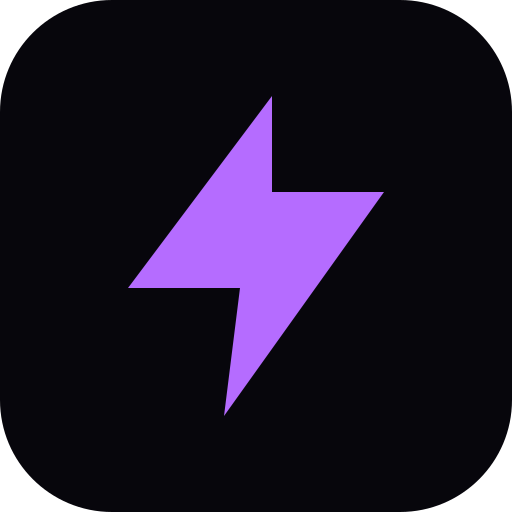
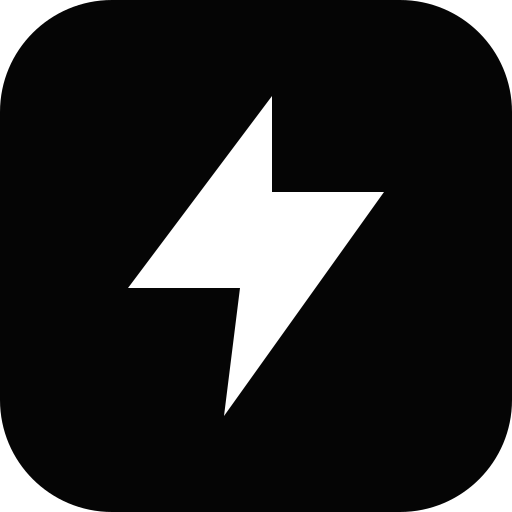
Switch site accent from purple to white for a cooler look.

Changed region(s): [[0.25, 0.1875, 0.75, 0.8125]]

diff --git a/src/App.css b/src/App.css
@@ -35,7 +35,7 @@
   height: min(40vw, 360px);
   bottom: 8%;
   left: -8%;
-  background: radial-gradient(circle, rgba(124, 58, 237, 0.35), transparent 70%);
+  background: radial-gradient(circle, rgba(255, 255, 255, 0.18), transparent 70%);
   animation-delay: -5s;
 }
 
@@ -273,7 +273,7 @@
   border: 1px solid rgba(var(--accent-rgb), 0.18);
   border-radius: 16px;
   background:
-    linear-gradient(180deg, rgba(28, 22, 40, 0.95), rgba(14, 12, 20, 0.98));
+    linear-gradient(180deg, rgba(24, 24, 24, 0.95), rgba(12, 12, 12, 0.98));
   box-shadow:
     0 24px 60px rgba(0, 0, 0, 0.45),
     0 0 0 1px rgba(var(--accent-rgb), 0.05),
@@ -470,10 +470,10 @@
 .primary-btn {
   position: relative;
   overflow: hidden;
-  background: linear-gradient(135deg, #c084fc, var(--accent) 45%, #7c3aed);
-  color: #12081c;
+  background: linear-gradient(135deg, #ffffff, #f3f3f3 45%, #d4d4d4);
+  color: #0a0a0a;
   transition: transform 0.2s ease, filter 0.2s ease, box-shadow 0.2s ease;
-  box-shadow: 0 8px 24px rgba(var(--accent-rgb), 0.28);
+  box-shadow: 0 8px 24px rgba(255, 255, 255, 0.12);
 }
 
 .primary-btn::after {
@@ -491,11 +491,11 @@
 }
 
 .primary-btn:hover {
-  background: linear-gradient(135deg, #d8b4fe, var(--accent-hover) 50%, #6d28d9);
+  background: linear-gradient(135deg, #ffffff, #fafafa 50%, #e5e5e5);
   text-decoration: none;
   transform: translateY(-1px);
   filter: brightness(1.05);
-  box-shadow: 0 12px 28px rgba(var(--accent-rgb), 0.38);
+  box-shadow: 0 12px 28px rgba(255, 255, 255, 0.2);
 }
 
 .primary-btn:active {

diff --git a/extension/content.css b/extension/content.css
@@ -8,17 +8,17 @@
   gap: 8px;
   padding: 8px 8px 8px 12px;
   border-radius: 999px;
-  border: 1px solid rgba(181, 108, 255, 0.35);
-  background: rgba(10, 8, 18, 0.92);
-  color: #faf7ff;
+  border: 1px solid rgba(255, 255, 255, 0.28);
+  background: rgba(8, 8, 8, 0.94);
+  color: #fafafa;
   font: 600 13px/1 Geist, Inter, system-ui, sans-serif;
-  box-shadow: 0 10px 30px rgba(0, 0, 0, 0.45), 0 0 24px rgba(181, 108, 255, 0.18);
+  box-shadow: 0 10px 30px rgba(0, 0, 0, 0.45), 0 0 24px rgba(255, 255, 255, 0.08);
   backdrop-filter: blur(10px);
 }
 
 .void-syndicate-mark {
-  color: #b56cff;
-  filter: drop-shadow(0 0 8px rgba(181, 108, 255, 0.55));
+  color: #ffffff;
+  filter: drop-shadow(0 0 8px rgba(255, 255, 255, 0.45));
 }
 
 .void-syndicate-label {
@@ -29,8 +29,8 @@
   border: 0;
   border-radius: 999px;
   padding: 8px 12px;
-  background: linear-gradient(135deg, #c084fc, #b56cff 45%, #7c3aed);
-  color: #12081c;
+  background: linear-gradient(135deg, #ffffff, #f3f3f3 45%, #d4d4d4);
+  color: #0a0a0a;
   font: 700 12px/1 Geist, Inter, system-ui, sans-serif;
   cursor: pointer;
 }
@@ -49,9 +49,9 @@
   max-width: min(92vw, 420px);
   padding: 10px 14px;
   border-radius: 12px;
-  background: rgba(18, 16, 28, 0.96);
-  border: 1px solid rgba(181, 108, 255, 0.35);
-  color: #e9d5ff;
+  background: rgba(12, 12, 12, 0.96);
+  border: 1px solid rgba(255, 255, 255, 0.28);
+  color: #f5f5f5;
   font: 600 13px/1.35 Geist, Inter, system-ui, sans-serif;
   box-shadow: 0 12px 32px rgba(0, 0, 0, 0.4);
 }

diff --git a/extension/popup.css b/extension/popup.css
@@ -1,12 +1,12 @@
 :root {
   color-scheme: dark;
-  --bg: #07060c;
-  --card: #121018;
-  --border: #2e2840;
-  --ink: #faf7ff;
-  --muted: #9b91b3;
-  --accent: #b56cff;
-  --accent-rgb: 181, 108, 255;
+  --bg: #050505;
+  --card: #111111;
+  --border: #333333;
+  --ink: #fafafa;
+  --muted: #a3a3a3;
+  --accent: #ffffff;
+  --accent-rgb: 255, 255, 255;
   --danger: #f87171;
   --ok: #6ee7b7;
   font-family: Geist, Inter, system-ui, sans-serif;
@@ -20,7 +20,7 @@ body {
   margin: 0;
   width: 320px;
   padding: 14px;
-  background: radial-gradient(420px 180px at 50% -20%, rgba(var(--accent-rgb), 0.18), transparent 60%),
+  background: radial-gradient(420px 180px at 50% -20%, rgba(255, 255, 255, 0.08), transparent 60%),
     var(--bg);
   color: var(--ink);
 }
@@ -91,15 +91,15 @@ button {
 }
 
 .ghost {
-  background: #1a1624;
+  background: #1a1a1a;
   color: var(--ink);
   border: 1px solid var(--border);
   padding: 0 0.9rem;
 }
 
 .primary {
-  background: linear-gradient(135deg, #c084fc, var(--accent) 45%, #7c3aed);
-  color: #12081c;
+  background: linear-gradient(135deg, #ffffff, #f3f3f3 45%, #d4d4d4);
+  color: #0a0a0a;
 }
 
 .status {
@@ -124,9 +124,9 @@ button {
 }
 
 .status.busy {
-  background: rgba(var(--accent-rgb), 0.1);
-  border: 1px solid rgba(var(--accent-rgb), 0.3);
-  color: #e9d5ff;
+  background: rgba(var(--accent-rgb), 0.08);
+  border: 1px solid rgba(var(--accent-rgb), 0.25);
+  color: #e5e5e5;
 }
 
 .result {

diff --git a/public/privacy.html b/public/privacy.html
@@ -4,20 +4,20 @@
     <meta charset="UTF-8" />
     <meta name="viewport" content="width=device-width, initial-scale=1.0" />
     <title>Privacy Policy — Void Syndicate</title>
-    <meta name="theme-color" content="#b56cff" />
+    <meta name="theme-color" content="#050505" />
     <style>
       :root {
         color-scheme: dark;
-        --bg: #07060c;
-        --ink: #faf7ff;
-        --muted: #b3a9c7;
-        --accent: #b56cff;
-        --border: #2e2840;
+        --bg: #050505;
+        --ink: #fafafa;
+        --muted: #a3a3a3;
+        --accent: #ffffff;
+        --border: #333333;
         font-family: Geist, Inter, system-ui, sans-serif;
       }
       body {
         margin: 0;
-        background: radial-gradient(700px 320px at 50% -10%, rgba(181, 108, 255, 0.16), transparent 55%),
+        background: radial-gradient(700px 320px at 50% -10%, rgba(255, 255, 255, 0.08), transparent 55%),
           var(--bg);
         color: var(--ink);
         line-height: 1.55;
@@ -50,7 +50,7 @@
         text-transform: uppercase;
       }
       code {
-        background: rgba(181, 108, 255, 0.12);
+        background: rgba(255, 255, 255, 0.1);
         color: var(--accent);
         padding: 0.1rem 0.35rem;
         border-radius: 6px;

diff --git a/src/index.css b/src/index.css
@@ -1,17 +1,17 @@
 :root {
-  --bg: #07060c;
-  --bg-elevated: #0e0c14;
-  --bg-card: #121018;
-  --bg-input: #0b0a10;
-  --border: #221e2e;
-  --border-strong: #2e2840;
-  --ink: #faf7ff;
-  --muted: #b3a9c7;
-  --muted-2: #7d7396;
-  --accent: #b56cff;
-  --accent-hover: #9a4dff;
-  --accent-soft: rgba(181, 108, 255, 0.14);
-  --accent-rgb: 181, 108, 255;
+  --bg: #050505;
+  --bg-elevated: #0c0c0c;
+  --bg-card: #111111;
+  --bg-input: #0a0a0a;
+  --border: #222222;
+  --border-strong: #333333;
+  --ink: #fafafa;
+  --muted: #a3a3a3;
+  --muted-2: #737373;
+  --accent: #ffffff;
+  --accent-hover: #e8e8e8;
+  --accent-soft: rgba(255, 255, 255, 0.12);
+  --accent-rgb: 255, 255, 255;
   --danger: #f87171;
   --discord: #5865f2;
   --radius: 12px;

diff --git a/index.html b/index.html
@@ -7,7 +7,7 @@
       name="description"
       content="Void Syndicate — Skip the wait. Get to the link. Bypass for Linkvertise, Work.ink, Lootlabs and more."
     />
-    <meta name="theme-color" content="#b56cff" />
+    <meta name="theme-color" content="#050505" />
     <meta name="mobile-web-app-capable" content="yes" />
     <meta name="apple-mobile-web-app-capable" content="yes" />
     <meta name="apple-mobile-web-app-status-bar-style" content="black-translucent" />
